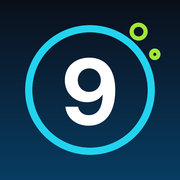
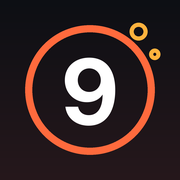
Allinea colori, nome e icone a quelli dell'app
Claude-Session: https://claude.ai/code/session_01VWKzwJiv9HqpYBqVQCkvuP

diff --git a/pwa/pwa.css b/pwa/pwa.css
@@ -25,7 +25,7 @@ html {
   text-size-adjust: 100%;
   -webkit-tap-highlight-color: transparent;
   overscroll-behavior: none; /* niente "tira per aggiornare" o rimbalzo che sposta il timer */
-  background: #0b0f1a; /* evita il lampo bianco all'apertura */
+  background: #0d0f14; /* evita il lampo bianco all'apertura */
 }
 body {
   margin: 0;
@@ -67,9 +67,9 @@ input, select, textarea { font-size: max(16px, 1em); }
   align-items: center;
   padding: 16px;
   border-radius: 18px;
-  background: #151b2e;
+  background: #1a1d26;
   color: #eef2ff;
-  border: 1px solid rgba(34, 211, 238, .35);
+  border: 1px solid rgba(255, 106, 61, .45);
   box-shadow: 0 12px 40px rgba(0, 0, 0, .5);
   font: 15px/1.4 system-ui, -apple-system, "Segoe UI", Roboto, sans-serif;
 }
@@ -89,10 +89,10 @@ input, select, textarea { font-size: max(16px, 1em); }
   font-weight: 600;
   cursor: pointer;
 }
-.pwa-btn--primary { background: #22d3ee; color: #04121a; border-color: transparent; }
+.pwa-btn--primary { background: #ff6a3d; color: #160803; border-color: transparent; }
 .pwa-install__how { grid-column: 1 / -1; }
 .pwa-steps { margin: 4px 0 0; padding-left: 22px; display: grid; gap: 8px; }
-.pwa-ico { vertical-align: -3px; color: #22d3ee; }
+.pwa-ico { vertical-align: -3px; color: #ffb23d; }
 @keyframes pwa-up { from { transform: translateY(30px); opacity: 0; } to { transform: none; opacity: 1; } }
 @media (prefers-reduced-motion: reduce) { .pwa-install { animation: none; } }
 

diff --git a/pwa/head-snippet.html b/pwa/head-snippet.html
@@ -1,11 +1,12 @@
 <!-- Da incollare nell'<head> di index.html (prima dei propri CSS) -->
 <meta charset="utf-8">
 <meta name="viewport" content="width=device-width, initial-scale=1, viewport-fit=cover, maximum-scale=1, user-scalable=no">
-<meta name="theme-color" content="#0b0f1a">
+<meta name="theme-color" content="#0d0f14">
 <meta name="color-scheme" content="dark">
 
 <!-- Installazione come app -->
 <link rel="manifest" href="manifest.webmanifest">
+<link rel="icon" type="image/svg+xml" href="icons/icon.svg">
 <link rel="icon" type="image/png" sizes="32x32" href="icons/favicon-32.png">
 
 <!-- iPhone / iPad: apertura a schermo intero dall'icona sulla Home -->

diff --git a/sw.js b/sw.js
@@ -14,6 +14,8 @@ const CACHE = `mr9-${VERSION}`;
 const PRECACHE = [
   './',
   './index.html',
+  './app.css',
+  './app.js',
   './manifest.webmanifest',
   './pwa/pwa.js',
   './pwa/pwa.css',
@@ -22,6 +24,7 @@ const PRECACHE = [
   './icons/icon-512.png',
   './icons/apple-touch-icon.png',
   './icons/favicon-32.png',
+  './icons/icon.svg',
 ];
 
 self.addEventListener('install', (event) => {
